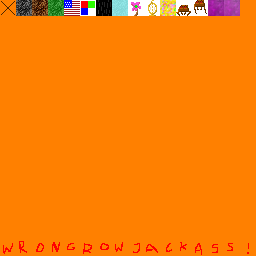
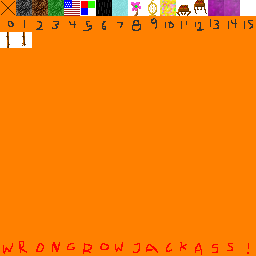
Rope, and viscosity, and swimming, climbing, and block type updates, and rows in texture atlas

diff --git a/main.js b/main.js
@@ -116,11 +116,15 @@ var BLOCK_TYPES = {
   flower: {
     tile: 8,
     geometry: geometryDecalX,
+    margin: 0.2,
+    update: updateResting,
   },
   lamp: {
     tile: 9,
     geometry: geometryDecalX,
     luminosity: 8,
+    margin: 0.2,
+    update: updateResting,
   },
   candy: {
     tile: 10,
@@ -133,6 +137,17 @@ var BLOCK_TYPES = {
     liquid: true,
     translucent: [154,40,155,0.85],
     geometry: geometryBlock,
+    viscosity: 0.85,
+  },
+  rope: {
+    tile: [0,2],
+    liquid: true,
+    geometry: geometryDecalX,
+    update: function updateHanging() {
+      var nt = blockFacing(this, FACE_TOP).type;
+      if (!nt.solid && nt !== this.type)
+        this.changeType();
+    },
   },
 };
 var NBLOCKTYPES = 0;
@@ -142,6 +157,13 @@ for (var i in BLOCK_TYPES) {
 }
 for (var i in BLOCK_TYPES)
   BLOCK_TYPES[BLOCK_TYPES[i].index] = BLOCK_TYPES[i];
+
+function updateResting() {
+  var nt = blockFacing(this, FACE_BOTTOM).type;
+  if (!nt.solid)
+    this.changeType();
+}
+
 
 function initGL(canvas) {
   var problem = '';
@@ -686,6 +708,7 @@ function updateWorld() {
 
 function processInput(avatar, elapsed) {
   var ddp = avatar.ACCELERATION * elapsed;
+  avatar.swimming = avatar.falling && block(avatar).type.liquid;
   
   // Drag
   if (!(KEYS.W || KEYS.A || KEYS.S || KEYS.D)) {
@@ -703,7 +726,7 @@ function processInput(avatar, elapsed) {
   if (KEYS.S) { avatar.dx += az; avatar.dz += ax; }
   if (KEYS.D) { avatar.dx += ax; avatar.dz -= az; }
   
-  if (avatar.flying) {
+  if (avatar.flying || avatar.swimming) {
     // Fly up and down
     if (KEYS[' '])
       avatar.dy += ddp;
@@ -724,13 +747,16 @@ function processInput(avatar, elapsed) {
 
   // Limit speed
   var h = sqr(avatar.dx) + sqr(avatar.dz);
-  if (avatar.flying) h += sqr(avatar.dy);
+  if (avatar.flying || avatar.swimming) h += sqr(avatar.dy);
   h = Math.sqrt(h);
-  var f = h / (avatar.flying ? avatar.FLY_MAX : avatar.WALK_MAX);
+  
+  var vmax = (avatar.flying ? avatar.FLY_MAX : avatar.WALK_MAX) *
+    (1 - (block(avatar).type.viscosity||0));
+  var f = h / vmax;
   if (f > 1) {
     avatar.dx /= f;
     avatar.dz /= f;
-    if (avatar.flying) avatar.dy /= f;
+    if (avatar.flying || avatar.swimming) avatar.dy /= f;
   }
 }
 
@@ -800,9 +826,10 @@ function ballistics(e, elapsed) {
     }
   }
 
-  // Still falling
-  if (e.falling)
+  // Fall
+  if (e.falling && !(e.swimming && (KEYS[' '] || KEYS[16])))
     e.dy -= GRAVITY * elapsed;
+
   e.y += e.dy * elapsed;
 
   if (block(e).type.solid && (e.flying || e.falling)) {
@@ -915,6 +942,9 @@ function tick() {
     var pf = blockFacing(PICKED, PICKED_FACE);
     if (pf) feedback += ' &rarr; ' + pf;
   }
+  var keys = '';
+  for (var k in KEYS) if (KEYS[k]) keys += ' ' + escape(k);
+  if (keys.length > 0) feedback += '<br>Keys: ' + keys;
   $('stats').innerHTML = feedback;
 }
 
@@ -980,16 +1010,20 @@ Block.prototype.generateTerrain = function () {
   }
 }
 
-Block.prototype.invalidate = function () {
+Block.prototype.invalidate = function (andNeighbors) {
   if (!this.dirty) {
     this.dirty = true;
     this.vertices = null;
     if (this.chunk)
       ++this.chunk.ndirty;
   }
+  if (andNeighbors)
+    neighbors(this, function (n) { n.invalidate() });
 }
 
 Block.prototype.update = function () {
+  if (this.type.update)
+    this.type.update.apply(this);
   this.dirty = false;
   var light;
   if (this.type.opaque) {
@@ -1006,6 +1040,20 @@ Block.prototype.update = function () {
     this.light = light;
     this.vertices = null;  // force re-geom
     neighbors(this, function (n) { n.invalidate() });
+  }
+}
+
+Block.prototype.changeType = function (newType) {
+  this.type = newType || BLOCK_TYPES.air;
+  this.invalidate(true);
+  if (this.type === BLOCK_TYPES.air) {
+    for (var i = 0; i < 50; ++i) {
+      var p = PARTICLES.spawn({
+        x0: PICKED.x + 0.5, 
+        y0: PICKED.y + 0.5, 
+        z0: PICKED.z + 0.5});
+      //PARTICLES.bounceParticle(p);
+    }
   }
 }
 
@@ -1026,7 +1074,7 @@ function geometryDecalX(b) {
   if (b.y >= NY-1)
     light = 1;  // Account for topmost block against non-block
   
-  var L = 0.2;
+  var L = b.type.margin || 0;
   var R = 1 - L;
   var H = R - L;
   v.positions = [b.x + L,   b.y,     b.z + 0.5,
@@ -1041,10 +1089,15 @@ function geometryDecalX(b) {
                4, 5, 6,  4, 6, 7];
   v.textures = [];
   for (var i = 0; i < 2; ++i) {
-    v.textures.push(b.type.tile + ZERO, ONE, 
-                    b.type.tile + ONE,  ONE, 
-                    b.type.tile + ONE,  ZERO, 
-                    b.type.tile + ZERO, ZERO);
+    var tilex = b.type.tile, tiley = 0;
+    if (Array.isArray(tilex)) {
+      tiley = tilex[1];
+      tilex = tilex[0];
+    }
+    v.textures.push(tilex + ZERO, tiley + ONE, 
+                    tilex + ONE,  tiley + ONE, 
+                    tilex + ONE,  tiley + ZERO, 
+                    tilex + ZERO, tiley + ZERO);
   }
   v.lighting = [];
   for (var i = 0; i < v.positions.length; ++i)
@@ -1089,10 +1142,15 @@ function geometryBlock(b) {
       }
       
       // Set textures per vertex: one ST pair for each vertex
-      v.textures.push(b.type.tile + ONE,  ZERO, 
-                      b.type.tile + ZERO, ZERO, 
-                      b.type.tile + ZERO, ONE, 
-                      b.type.tile + ONE,  ONE);
+      var tilex = b.type.tile, tiley = 0;
+      if (Array.isArray(tilex)) {
+        tiley = tilex[1];
+        tilex = tilex[0];
+      }
+      v.textures.push(tilex + ONE,  tiley + ZERO, 
+                      tilex + ZERO, tiley + ZERO, 
+                      tilex + ZERO, tiley + ONE, 
+                      tilex + ONE,  tiley + ONE);
 
       // Describe triangles
       v.indices.push(pindex, pindex + 1, pindex + 2,
@@ -1147,10 +1205,14 @@ Entity.prototype.clock = function () {
 }
 
 Entity.prototype.toString = function () {
-  return '[' + this.x.toFixed(2) + ',' + this.y.toFixed(2) + ',' +
-    this.z.toFixed(2) + '] &lt;' + this.yaw.toFixed(2) + ',' +
-    this.pitch.toFixed(2) + '&gt +' + 
-    '[' + this.dx.toFixed(2) + ',' + this.dy.toFixed(2) + ',' + this.dz.toFixed(2) + '] ' + (this.flying ? 'F' : this.falling ? 'f' : 'w');
+  var result = '[' + this.x.toFixed(2) + ',' + this.y.toFixed(2) + ',' +
+                 this.z.toFixed(2) + '] ';
+  result += '&lt;' + this.yaw.toFixed(2) + ',' + this.pitch.toFixed(2) + '&gt';
+  result += ' +[' + this.dx.toFixed(2) + ',' + this.dy.toFixed(2) + ',' + 
+                this.dz.toFixed(2) + '] ';
+  result += (this.flying ? 'F' : this.falling ? 'f' : 'w');
+  if (this.swimming) result += 's';
+  return result;
 }
 
 function onLoad() {
@@ -1160,7 +1222,7 @@ function onLoad() {
 
   // Create player
 
-  AVATAR = new Entity({x:NX/2, y:NY/2, z:NZ/2});
+  AVATAR = new Entity({x:NX/2 - 0.5, y:NY/2, z:NZ/2 + 0.5});
   AVATAR.mouselook = false;
   AVATAR.lastHop = 0;
 
@@ -1338,22 +1400,11 @@ function onmousedown(event) {
   if (event.preventDefault) event.preventDefault();
   if (PICKED && AVATAR.mouselook) {
     if (event.button === 0) {
-      PICKED.type = BLOCK_TYPES.air;
-      PICKED.invalidate(true);
-      neighbors(PICKED, function (n) { n.invalidate(true) });
-      for (var i = 0; i < 50; ++i) {
-        var p = PARTICLES.spawn({
-          x0: PICKED.x + 0.5, 
-          y0: PICKED.y + 0.5, 
-          z0: PICKED.z + 0.5});
-        //PARTICLES.bounceParticle(p);
-      }
+      PICKED.changeType();
     } else {
       var b = blockFacing(PICKED, PICKED_FACE);
-      if (!b.outofbounds) {
-        b.type = AVATAR.tool || PICKED.type;
-        b.invalidate(true);
-      }
+      if (!b.outofbounds)
+        b.changeType(AVATAR.tool || PICKED.type);
     }
   }
   return false;
@@ -1576,8 +1627,13 @@ function pickTool(blocktype) {
   var ctx = toolcan.getContext('2d');
   ctx.clearRect(0, 0, toolcan.width, toolcan.height);
   if (blocktype) {
+    var tilex = blocktype.tile, tiley = 0;
+    if (Array.isArray(tilex)) {
+      tiley = tilex[1];
+      tilex = tilex[0];
+    }
     ctx.drawImage($('terrain'), 
-                  16 * blocktype.tile, 0,  16, 16,
+                  16 * tilex, 16 * tiley,  16, 16,
                   0, 0,                    toolcan.width, toolcan.height);
   }
 }
